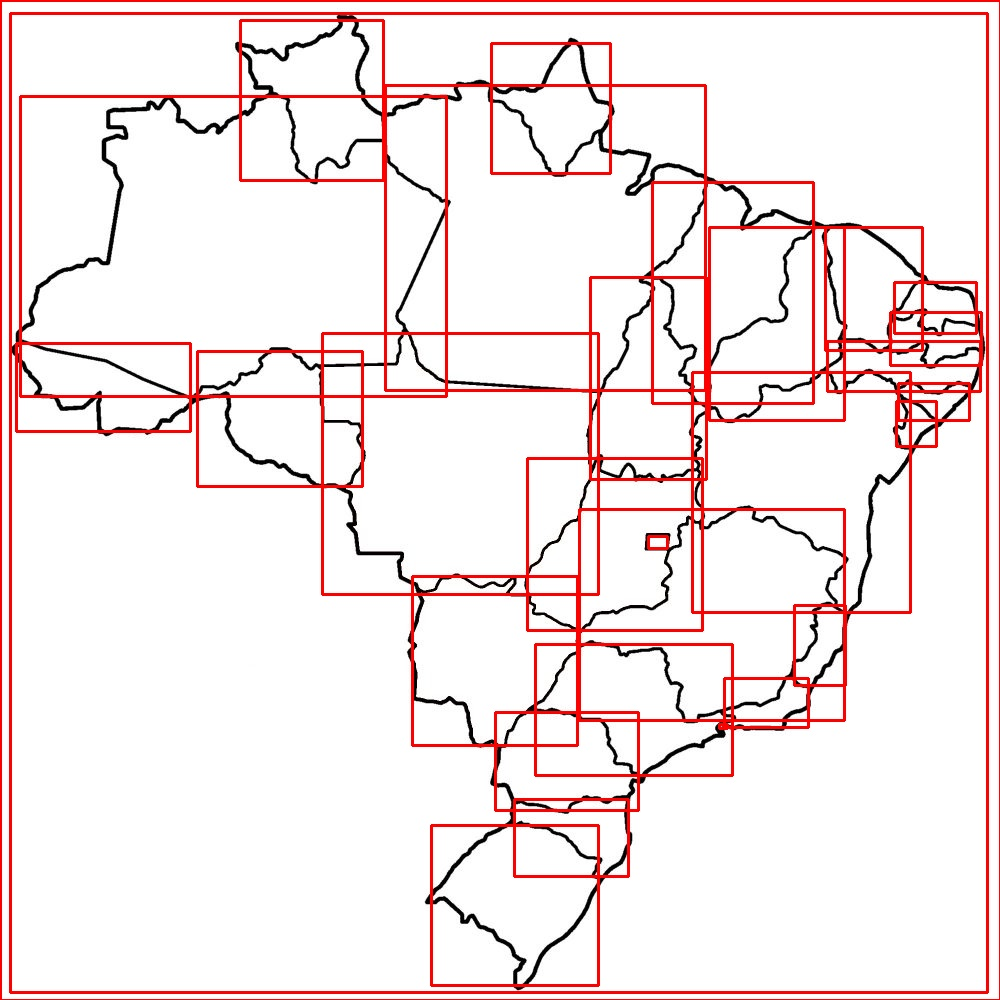
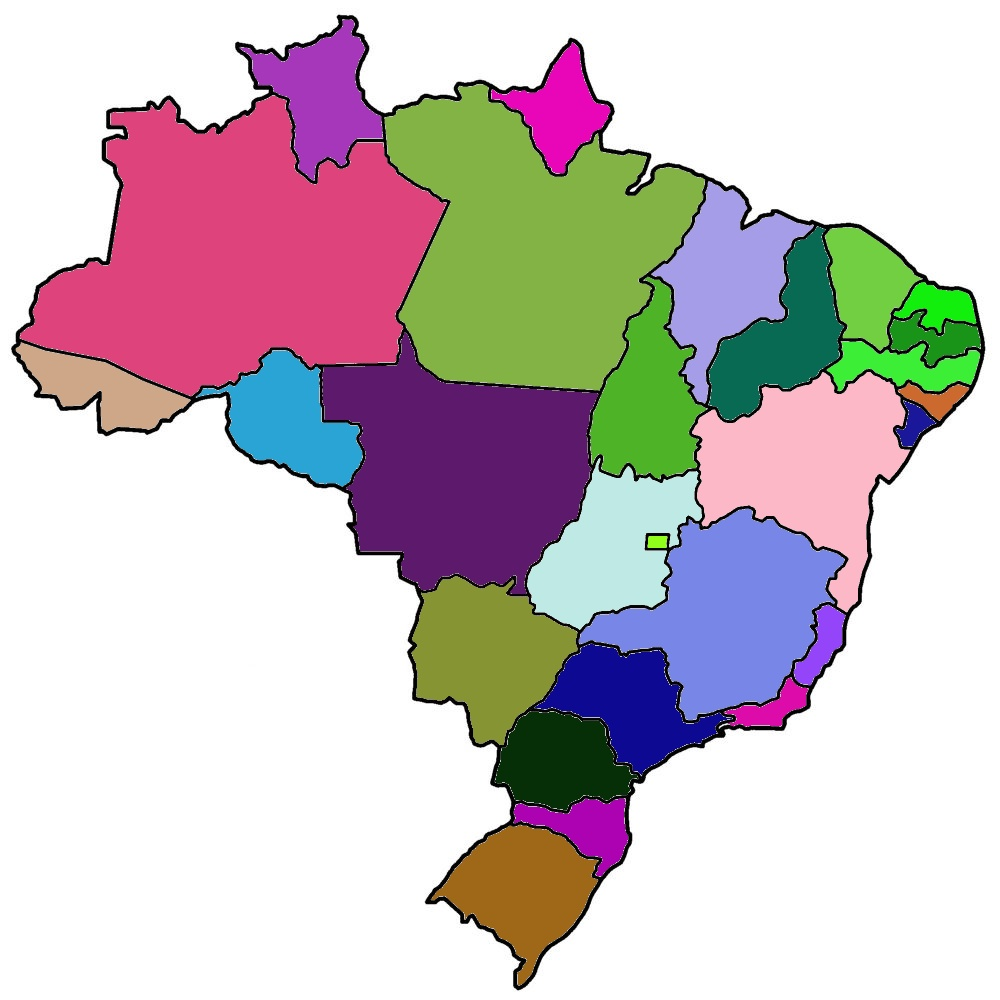
colorir pronto

diff --git a/main.py b/main.py
@@ -1,18 +1,12 @@
-import PIL
-from PIL import Image, ImageFilter
-import numpy as np
 import cv2 as cv
-import csv
-import math
-
+import random
 
 def showImg(img):
     cv.imshow('image', img)
-    cv.waitKey(5000)
+    cv.waitKey(500)
     cv.destroyAllWindows()
 
-# recortar as folhas
-def asd(folder, nome):
+def getContornos(folder, nome):
     
     img = cv.imread(nome)
     copy = img.copy()
@@ -20,22 +14,27 @@ def asd(folder, nome):
     ret, thresh = cv.threshold(imgray, 200, 255, 0)
     contours, hierarchy = cv.findContours(thresh, cv.RETR_TREE, cv.CHAIN_APPROX_NONE)
 
-    for i in range(0,len(contours)): 
-        print('Contorno {}... Area: {}'.format(i,cv.contourArea(contours[i]))) 
+    cont = 0
+    for i in range(2,len(contours)): 
+        if(cv.contourArea(contours[i]) > 1.0):
+            print('Contorno {}... Area: {}'.format(i,cv.contourArea(contours[i])))
 
-        # faz um bound box do contorno identificado
-        x,y,w,h = cv.boundingRect(contours[i])
-        ROI = img[y:y+h, x:x+w]
+            cv.fillPoly(copy, pts = [contours[i]], color=(random.randint(1, 255), random.randint(1, 255), random.randint(1, 255)))
+            '''
+            # faz um bound box do contorno identificado
+            x,y,w,h = cv.boundingRect(contours[i])
+            ROI = img[y:y+h, x:x+w]
 
+            
+            cv.rectangle(copy,(x,y),(x+w,y+h),(0,0,255),2)
+            '''
+            cv.imwrite(folder+nome,copy)
+            showImg(copy)
 
-        cv.rectangle(copy,(x,y),(x+w,y+h),(0,0,255),2)
-        cv.imwrite(folder+nome,copy)
-
-
-    print('\nNúmero de contornos: {}'.format(len(contours)))
+            cont += 1
 
 def main():
-    asd('imagens/', 'mapa2.jpg')
+    getContornos('imagens/', 'mapa.jpg')
 
 main()
 
